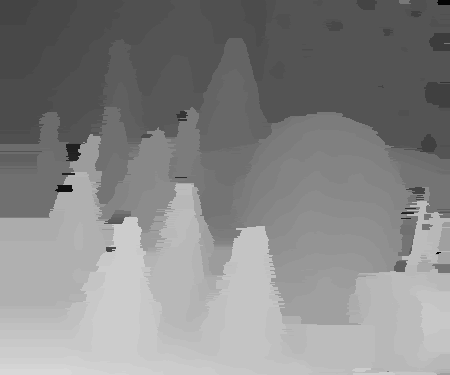
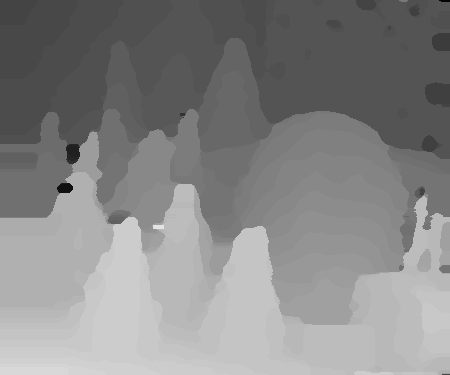
done

diff --git a/Assignment4/main.py b/Assignment4/main.py
@@ -144,14 +144,12 @@ def computeDisp(Il, Ir, max_disp):
     tic = time.time()
     
     # TODO: Refine cost by aggregate nearby costs
-    costvolume_filtered_l = JBF(costvolume_l, Il, 19, 9, 0.2)
-    costvolume_filtered_r = JBF(costvolume_r, Ir, 19, 9, 0.2)
+    
+    costvolume_filtered_l = JBF(costvolume_l, Il, 19, 17, 0.12)
+    costvolume_filtered_r = JBF(costvolume_r, Ir, 19, 17, 0.12)
     
     toc = time.time()
     print('* Elapsed time (cost aggregation): %f sec.' % (toc - tic))
-
-
-
 
 
 
@@ -177,11 +175,9 @@ def computeDisp(Il, Ir, max_disp):
 
 
 
-
-
-
     # >>> Disparity refinement
     tic = time.time()
+    
     # TODO: Do whatever to enhance the disparity map
     # ex: Left-right consistency check + hole filling + weighted median filtering
     
@@ -201,28 +197,12 @@ def computeDisp(Il, Ir, max_disp):
             if occluded[i, j]:
                 labels_l[i, j] = labels_l[i, not_occluded[np.argmin(np.abs(not_occluded-j))]]
     
-    
-#    occluded = np.full((h, w), True)
-#    for i in range(h):
-#        for j in range(w):
-#            if int(j+labels_r[i, j]) >= w:
-#                continue
-#            if labels_r[i, j] == labels_l[i][int(j+labels_r[i, j])]:
-#                occluded[i, j] = False
-#    
-#    for i in range(h):
-#        not_occluded = np.where(occluded[i] == False)[0]
-#        for j in range(w):
-#            if occluded[i, j]:
-#                labels_r[i, j] = labels_r[i, not_occluded[np.argmin(np.abs(not_occluded-j))]]
-#            
-#    labels = np.stack([labels_l, labels_r], axis=2)
-    
     toc = time.time()
     print('* Elapsed time (disparity refinement): %f sec.' % (toc - tic))
     
+    
     labels_l = labels_l.astype('uint8')
-    return cv2.medianBlur(labels_l, 3)
+    return cv2.medianBlur(labels_l, 7)
 
 
 def main():
